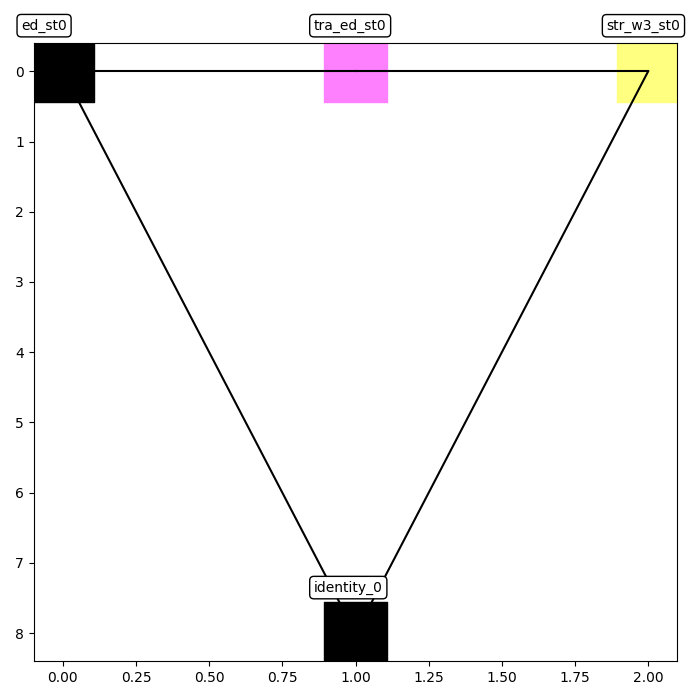
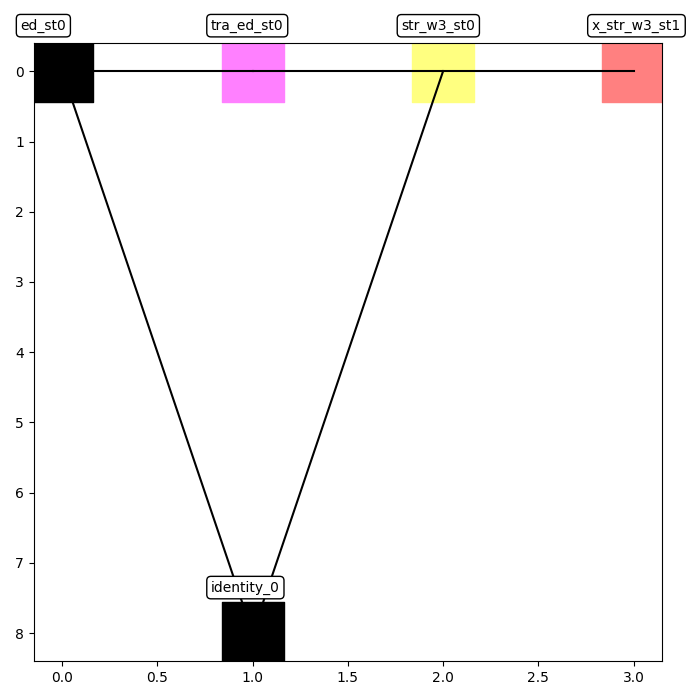
Added some convolutional expressions, small bug fixes, added pooling modes.

diff --git a/Python/Scripts/Projects/HFNetMNIST/TranslationNet.py b/Python/Scripts/Projects/HFNetMNIST/TranslationNet.py
@@ -18,7 +18,7 @@ class TranslationNet(nn.Module):
             {'n_channels_in' : 1 if i==0 else 16,
             'n_channels_out' : 16, # n_channels_out % shuffle_conv_groups == 0
             'conv_groups' : 16 // 4,
-            'avgpool' : True if i in [3, 6] else False,
+            'pool_mode' : "avgpool" if i in [3, 6] else "",
             'spatial_mode' : "predefined_filters", # one of predefined_filters and parameterized_translation
             'spatial_requires_grad' : False,
             'filter_mode' : "TranslationSharp8", # one of Even, Uneven, All, Random, Smooth, EvenPosOnly, UnevenPosOnly, TranslationSmooth, TranslationSharp4, TranslationSharp8
@@ -115,8 +115,8 @@ class ConvExpressionsManager():
             trackers_in=[
                 self.block.preprocessing.tracker_in,
             ]
-            if hasattr(self.block.preprocessing.avgpool, "tracker_out"):
-                trackers_in.append(self.block.preprocessing.avgpool.tracker_out)
+            if hasattr(self.block.preprocessing.pool, "tracker_out"):
+                trackers_in.append(self.block.preprocessing.pool.tracker_out)
 
             trackers_in_permuted = [
                 self.block.preprocessing.permutation_module.tracker_out,
@@ -131,16 +131,14 @@ class ConvExpressionsManager():
 
             # Add labels of the channel. This code paragraph does not work when a copy module copys channels.
             if self.precursors:
-                label_position_dict = {} # stores for each channel label the channel position at the precursor 
                 for precursor in self.precursors:
-                    for i, out_channel_label in enumerate(precursor.output_channel_labels):
-                        label_position_dict[out_channel_label] = precursor.channel_position + i
-                for tracker in trackers_in:
-                    if "channel_labels" not in tracker.data['data']:
-                        tracker.data['data']["channel_labels"] = ["" for _ in range(self.n_channels_out_layer)]
-                    labels = tracker.data['data']["channel_labels"]
-                    for label in self.input_channel_labels:
-                        labels[label_position_dict[label]] = label
+                    for tracker in trackers_in:
+                        if "channel_labels" not in tracker.data['data']:
+                            tracker.data['data']["channel_labels"] = ["" for _ in range(precursor.n_channels_out_layer)]
+                        labels = tracker.data['data']["channel_labels"]
+                        for channel, label in enumerate(precursor.output_channel_labels):
+                            out_channel_shifted = channel + precursor.channel_position
+                            labels[out_channel_shifted] = label
 
                 for tracker in trackers_in_permuted:
                     if "channel_labels" not in tracker.data['data']:
@@ -160,8 +158,13 @@ class ConvExpressionsManager():
         
 
         def write_colors(self):
-            trackers = [
+            trackers_in=[
                 self.block.preprocessing.tracker_in,
+            ]
+            if hasattr(self.block.preprocessing.pool, "tracker_out"):
+                trackers_in.append(self.block.preprocessing.pool.tracker_out)
+
+            trackers = [
                 self.block.preprocessing.permutation_module.tracker_out,
                 self.block.preprocessing.norm_module.tracker_out,
                 self.block.tracker_input_conv_1,
@@ -175,9 +178,18 @@ class ConvExpressionsManager():
                 self.block.conv1x1_2.conv1x1.tracker_out,
                 self.block.conv1x1_2.relu.tracker_out,
             ]
-            if hasattr(self.block.preprocessing.avgpool, "tracker_out"):
-                trackers.append(self.block.preprocessing.avgpool.tracker_out)
+            if hasattr(self.block.preprocessing.pool, "tracker_out"):
+                trackers.append(self.block.preprocessing.pool.tracker_out)
 
+            for precursor in self.precursors:
+                for tracker in trackers_in:
+                    if "colors" not in tracker.data['data']:
+                        tracker.data['data']["colors"] = [[] for _ in range(precursor.n_channels_out_layer)]
+                    colors = tracker.data['data']["colors"]
+                    for channel in range(precursor.n_channels_out):
+                        out_channel_shifted = channel + precursor.channel_position
+                        colors[out_channel_shifted] = precursor.color
+                    
             for tracker in trackers:
                 if "colors" not in tracker.data['data']:
                     tracker.data['data']["colors"] = [[] for _ in range(self.n_channels_out_layer)]
@@ -231,7 +243,7 @@ class ConvExpressionsManager():
         layerings_in_poolstages, blocks_of_layers = self.get_layerings_in_poolstages(conv_expressions_in_poolstages, pool_stage_list)
         # layerings_in_poolstages is a list of shape [n_poolstages, n_layers, n_elements]
         # A layering is a list of shape [n_layers, n_elements]
-        # blocks_of_layers is a list of shape [n_layers, n_blocks_in_this_layer]. It contains the block ids that are contained within each layer.
+        # blocks_of_layers is a list of shape [n_layers]. It contains the block id that is on the layer
 
         # Create a node for each convolutional expression
         block_channel_counts = [0 for i in range(len(blocks))]
@@ -256,7 +268,8 @@ class ConvExpressionsManager():
                     node.input_channel_labels = conv_expression['input_channel_labels']
                     node.output_channel_labels = conv_expression['output_channel_labels']
                     nodes[conv_expression_id] = node
-                layer_id += 1
+                if layer:
+                    layer_id += 1
 
         # For each conv expression check if the precursor ends at the previous block. If not, add linker expressions (they have identity weights) in between.
         self.add_linker_nodes(nodes, blocks, block_channel_counts)
@@ -272,7 +285,7 @@ class ConvExpressionsManager():
 
 
     def get_conv_expressions_in_poolstages(self, target_conv_expressions, blockconfig_list):
-        pool_booleans = [blockconfig["avgpool"] for blockconfig in blockconfig_list]
+        pool_booleans = [bool(blockconfig["pool_mode"]) for blockconfig in blockconfig_list]
         pool_stage_list = [0] # stores for each block the pool stage
         for pool_boolean in pool_booleans[1:]:
             if pool_boolean:
@@ -462,7 +475,7 @@ class TranslationNet_(nn.Module):
                 n_channels_in=config['n_channels_in'],
                 n_channels_out=config['n_channels_out'],
                 conv_groups=config['conv_groups'],
-                avgpool=config['avgpool'],
+                pool_mode=config['pool_mode'],
                 spatial_mode=config['spatial_mode'],
                 spatial_requires_grad = config['spatial_requires_grad'],
                 filter_mode=config['filter_mode'],

diff --git a/Python/Scripts/Scripts/PredefinedFilterModules.py b/Python/Scripts/Scripts/PredefinedFilterModules.py
@@ -229,14 +229,52 @@ class BlendModule(WeightRegularizationModule):
         return out
 
 
-class TrackedAvgPool2d(nn.Module):
-    def __init__(
-        self, kernel_size=2, stride=2, padding=0
-    ) -> None:
+class Interpolate(nn.Module):
+    def __init__(self, antialias=False):
+        super().__init__()
+        self.antialias = antialias
+
+    def forward(self, x):
+        return F.interpolate(x, scale_factor=0.5, mode='bilinear', antialias=self.antialias)
+    
+
+class Subsample(nn.Module):
+    def __init__(self):
         super().__init__()
 
-        self.pool = nn.AvgPool2d(kernel_size=kernel_size, stride=stride, padding=padding)
+    def forward(self, x):
+        return x[:,:,::2,::2]
+
+
+class TrackedPool(nn.Module):
+    def __init__(self, pool_mode : str = "avgpool"):
+        super().__init__()
+
+        self.avg_pool = nn.AvgPool2d(kernel_size=2, stride=2, padding=0)
+        self.max_pool = nn.MaxPool2d(kernel_size=2, stride=2, padding=0)
+        self.interpolate = Interpolate(False)
+        self.interpolate_antialias = Interpolate(True)
+        self.subsample = Subsample()
+        self.pool = None
+        self.set_tracked_pool_mode(pool_mode)
         self.create_trackers()
+
+    def set_tracked_pool_mode(self, pool_mode : str):
+        if pool_mode == "avgpool":
+            self.pool = self.avg_pool
+            print("set to avgpool")
+        elif pool_mode == "maxpool":
+            self.pool = self.max_pool
+            print("set to maxpool")
+        elif pool_mode == "interpolate_antialias":
+            self.pool = self.interpolate_antialias
+            print("set to interpolate_antialias")
+        elif pool_mode == "interpolate":
+            self.pool = self.interpolate
+            print("set to interpolate")
+        elif pool_mode == "subsample":
+            self.pool = self.subsample
+            print("set to subsample")
 
     def create_trackers(self):
         self.tracker_out = tm.instance_tracker_module(label="AvgPool", draw_edges=False, ignore_highlight=True)
@@ -326,7 +364,7 @@ class ParameterizedFilterMode(enum.Enum):
    UnevenPosOnly = 6
    TranslationSmooth = 7
    TranslationSharp4 = 8
-   TranslationSharp8 = 8
+   TranslationSharp8 = 9
 
 
 class PredefinedConv(nn.Module):
@@ -644,7 +682,7 @@ class PreprocessingModule(nn.Module):
         n_channels_in: int,
         n_channels_out: int,
         conv_groups: int = 1,
-        avgpool: bool = True,
+        pool_mode: str = "avgpool",
         norm_module : nn.Module = LayerNorm,
         permutation : str = "shifted" # one of shifted, identity, disabled
     ) -> None:
@@ -656,7 +694,7 @@ class PreprocessingModule(nn.Module):
         self.tracker_in = tm.instance_tracker_module(label="Input")
 
         # Pooling
-        self.avgpool = TrackedAvgPool2d(kernel_size=2, stride=2, padding=0) if avgpool else nn.Identity()
+        self.pool = TrackedPool(pool_mode) if pool_mode else nn.Identity()
 
         # Permutation
         group_size = n_channels_in // conv_groups
@@ -680,7 +718,7 @@ class PreprocessingModule(nn.Module):
 
     def forward(self, x: Tensor) -> Tensor:
         _ = self.tracker_in(x)
-        x = self.avgpool(x)
+        x = self.pool(x)
         x = self.permutation_module(x)
         x = self.copymodule(x)
         x = self.norm_module(x)
@@ -693,7 +731,7 @@ class TranslationBlock(nn.Module):
         n_channels_in: int,
         n_channels_out: int, # n_channels_out % shuffle_conv_groups == 0
         conv_groups: int = 1,
-        avgpool: bool = True,
+        pool_mode: str = "avgpool",
         spatial_mode : str = "predefined_filters", # one of predefined_filters and parameterized_translation
         spatial_requires_grad : bool = True,
         filter_mode: str = "Uneven",
@@ -712,7 +750,7 @@ class TranslationBlock(nn.Module):
         else:
             raise ValueError
 
-        self.preprocessing = PreprocessingModule(n_channels_in, n_channels_out, conv_groups, avgpool, norm_module, permutation)
+        self.preprocessing = PreprocessingModule(n_channels_in, n_channels_out, conv_groups, pool_mode, norm_module, permutation)
 
         # 1x1 Conv
         tm.instance_tracker_module_group(label="1x1 Conv")

diff --git a/Python/Scripts/Projects/HFNetMNIST/get_dl_objects.py b/Python/Scripts/Projects/HFNetMNIST/get_dl_objects.py
@@ -26,7 +26,7 @@ def get_network():
             {'n_channels_in' : 1 if i==0 else 16,
             'n_channels_out' : 16, # n_channels_out % shuffle_conv_groups == 0
             'conv_groups' : 16 // 8,
-            'avgpool' : True if i in [3, 6] else False,
+            'pool_mode' : "avgpool" if i in [3, 6] else "",
             'spatial_mode' : "predefined_filters", # one of predefined_filters and parameterized_translation
             'spatial_requires_grad' : False,
             'filter_mode' : "TranslationSharp8", # one of Even, Uneven, All, Random, Smooth, EvenPosOnly, UnevenPosOnly, TranslationSmooth, TranslationSharp4, TranslationSharp8
@@ -37,7 +37,7 @@ def get_network():
             'permutation' : 'identity', # one of shifted, identity, disabled
             } for i in range(9)],
         init_mode='zero', # one of uniform, uniform_translation_as_pfm, zero, identity
-        conv_expressions = ["str_w3_st0"],
+        conv_expressions = ["x_str_w3_st1"],
         #statedict=os.path.join('..', 'Projects', 'HFNetMNIST', 'model_mnist_translationnet_predefined_filters_translation_groupedconv_scalereg.pt'),
     )
         

diff --git a/Python/Scripts/Scripts/DLNetwork.py b/Python/Scripts/Scripts/DLNetwork.py
@@ -110,9 +110,14 @@ class DLNetwork(object):
 
 
     def set_feature_visualization_params(self, param_dict):
+        # Create new FeatureVisualizationParams instance and attach it to the feature visualizer. 
         fv_settings = FeatureVisualizationParams(**param_dict)
         fv_settings.mode = FeatureVisualizationParams.Mode(param_dict["mode"])
         self.feature_visualizer.fv_settings = fv_settings
+        # Change the pooling mode of the network.
+        for module in self.model.modules():
+            if hasattr(module, "set_tracked_pool_mode"):
+                module.set_tracked_pool_mode(param_dict['pool_mode'])
 
 
     def get_classification_result(self):

diff --git a/Python/Scripts/Scripts/FeatureVisualizerRobust.py b/Python/Scripts/Scripts/FeatureVisualizerRobust.py
@@ -31,6 +31,8 @@ class FeatureVisualizationParams(object):
         blur_sigma=0.5,
         roll=4,
         fraction_to_maximize=0.25,
+        pool_mode="avgpool", # has no effect but is listed here for completeness
+
         ):
 
         self.target_size = target_size
